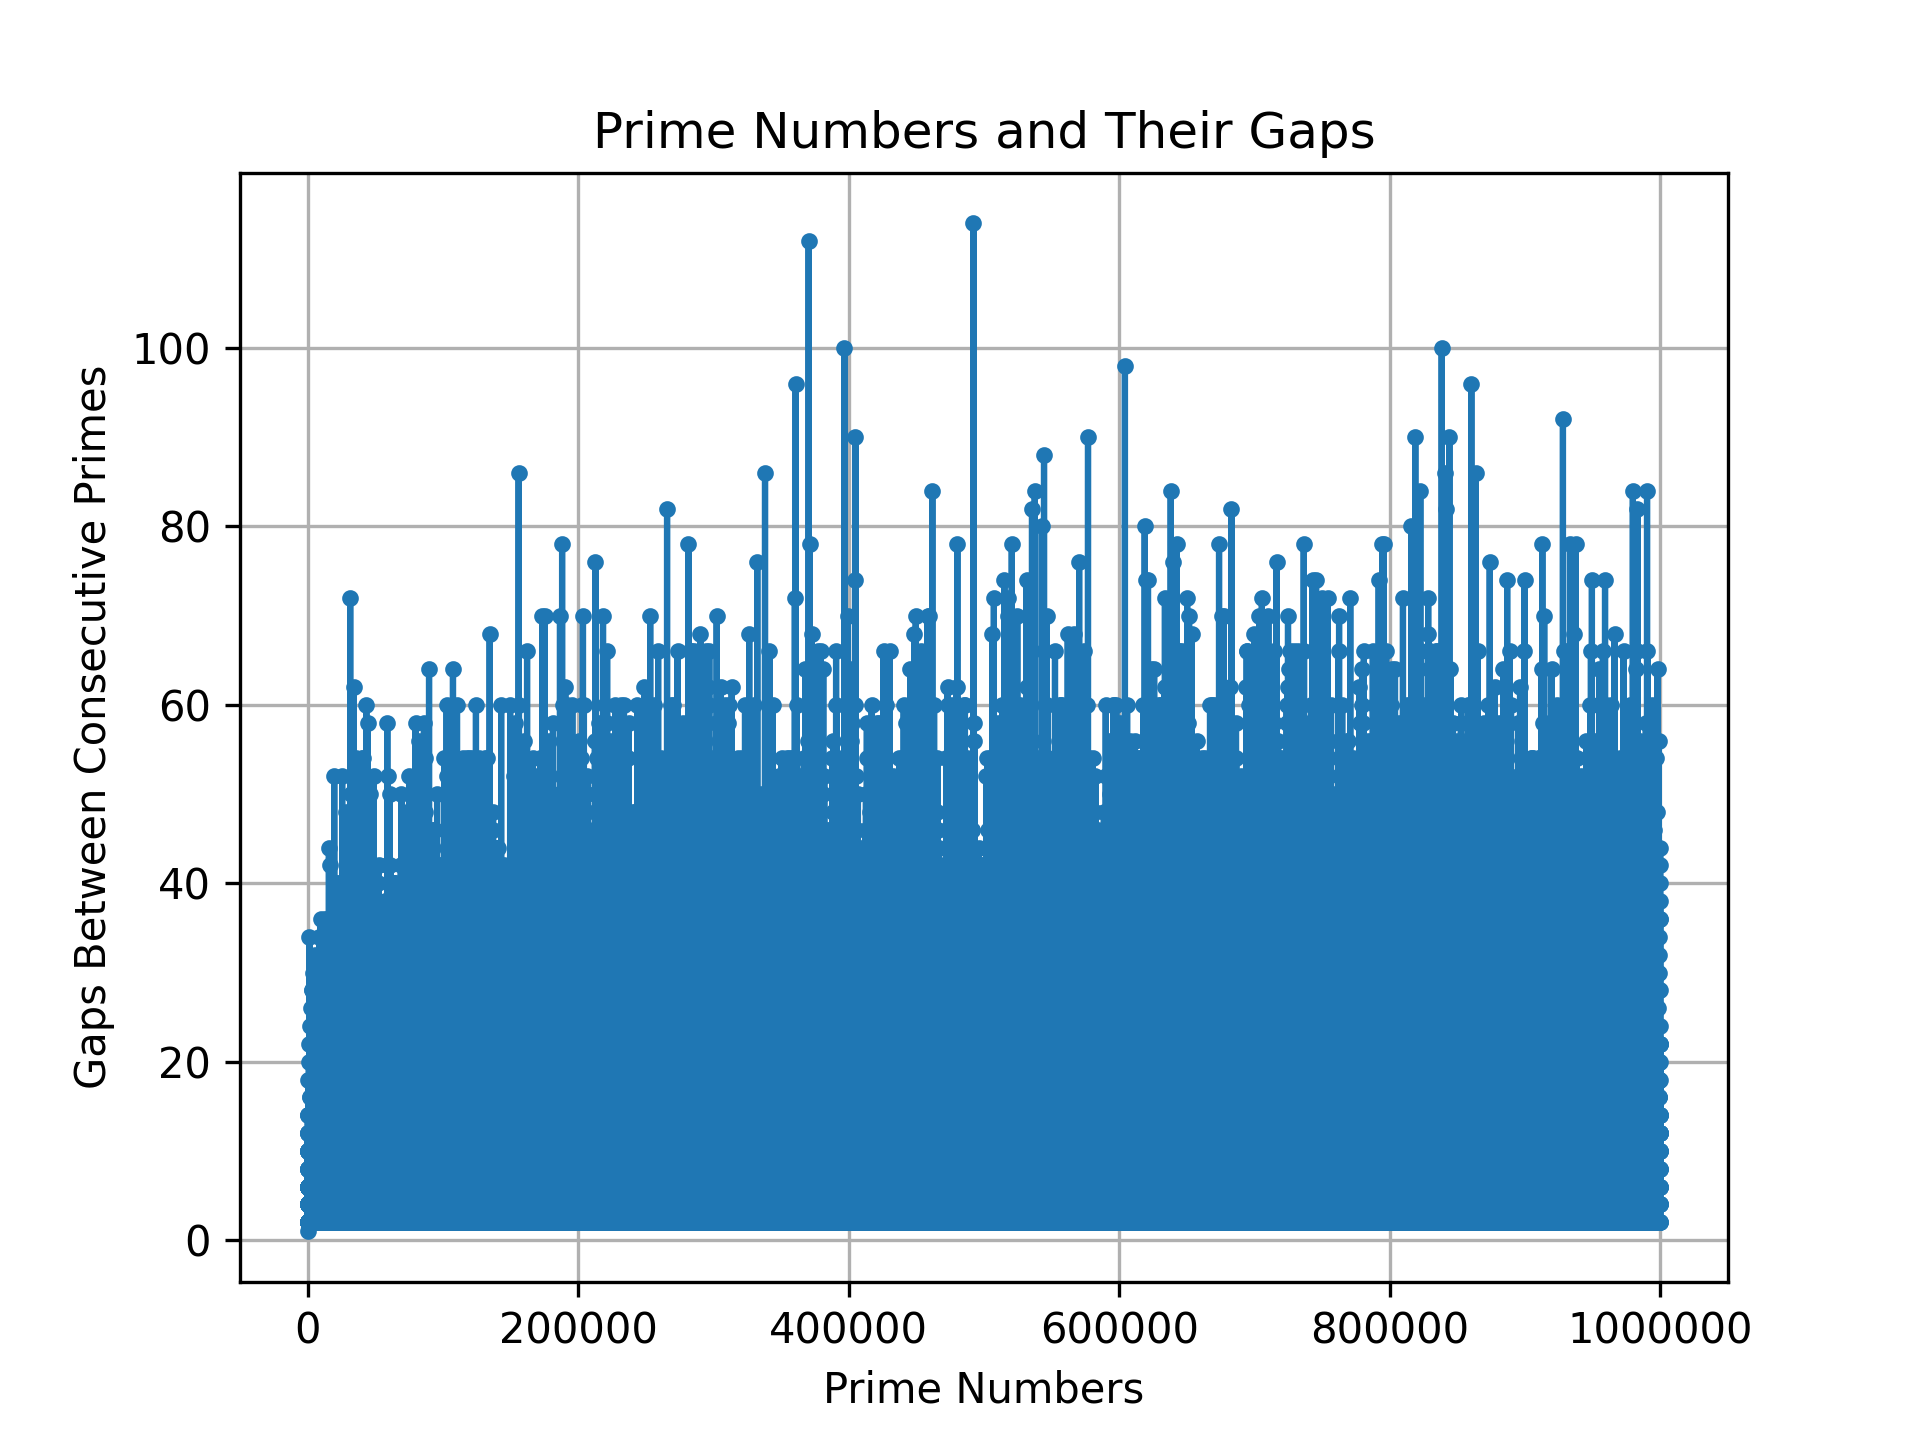
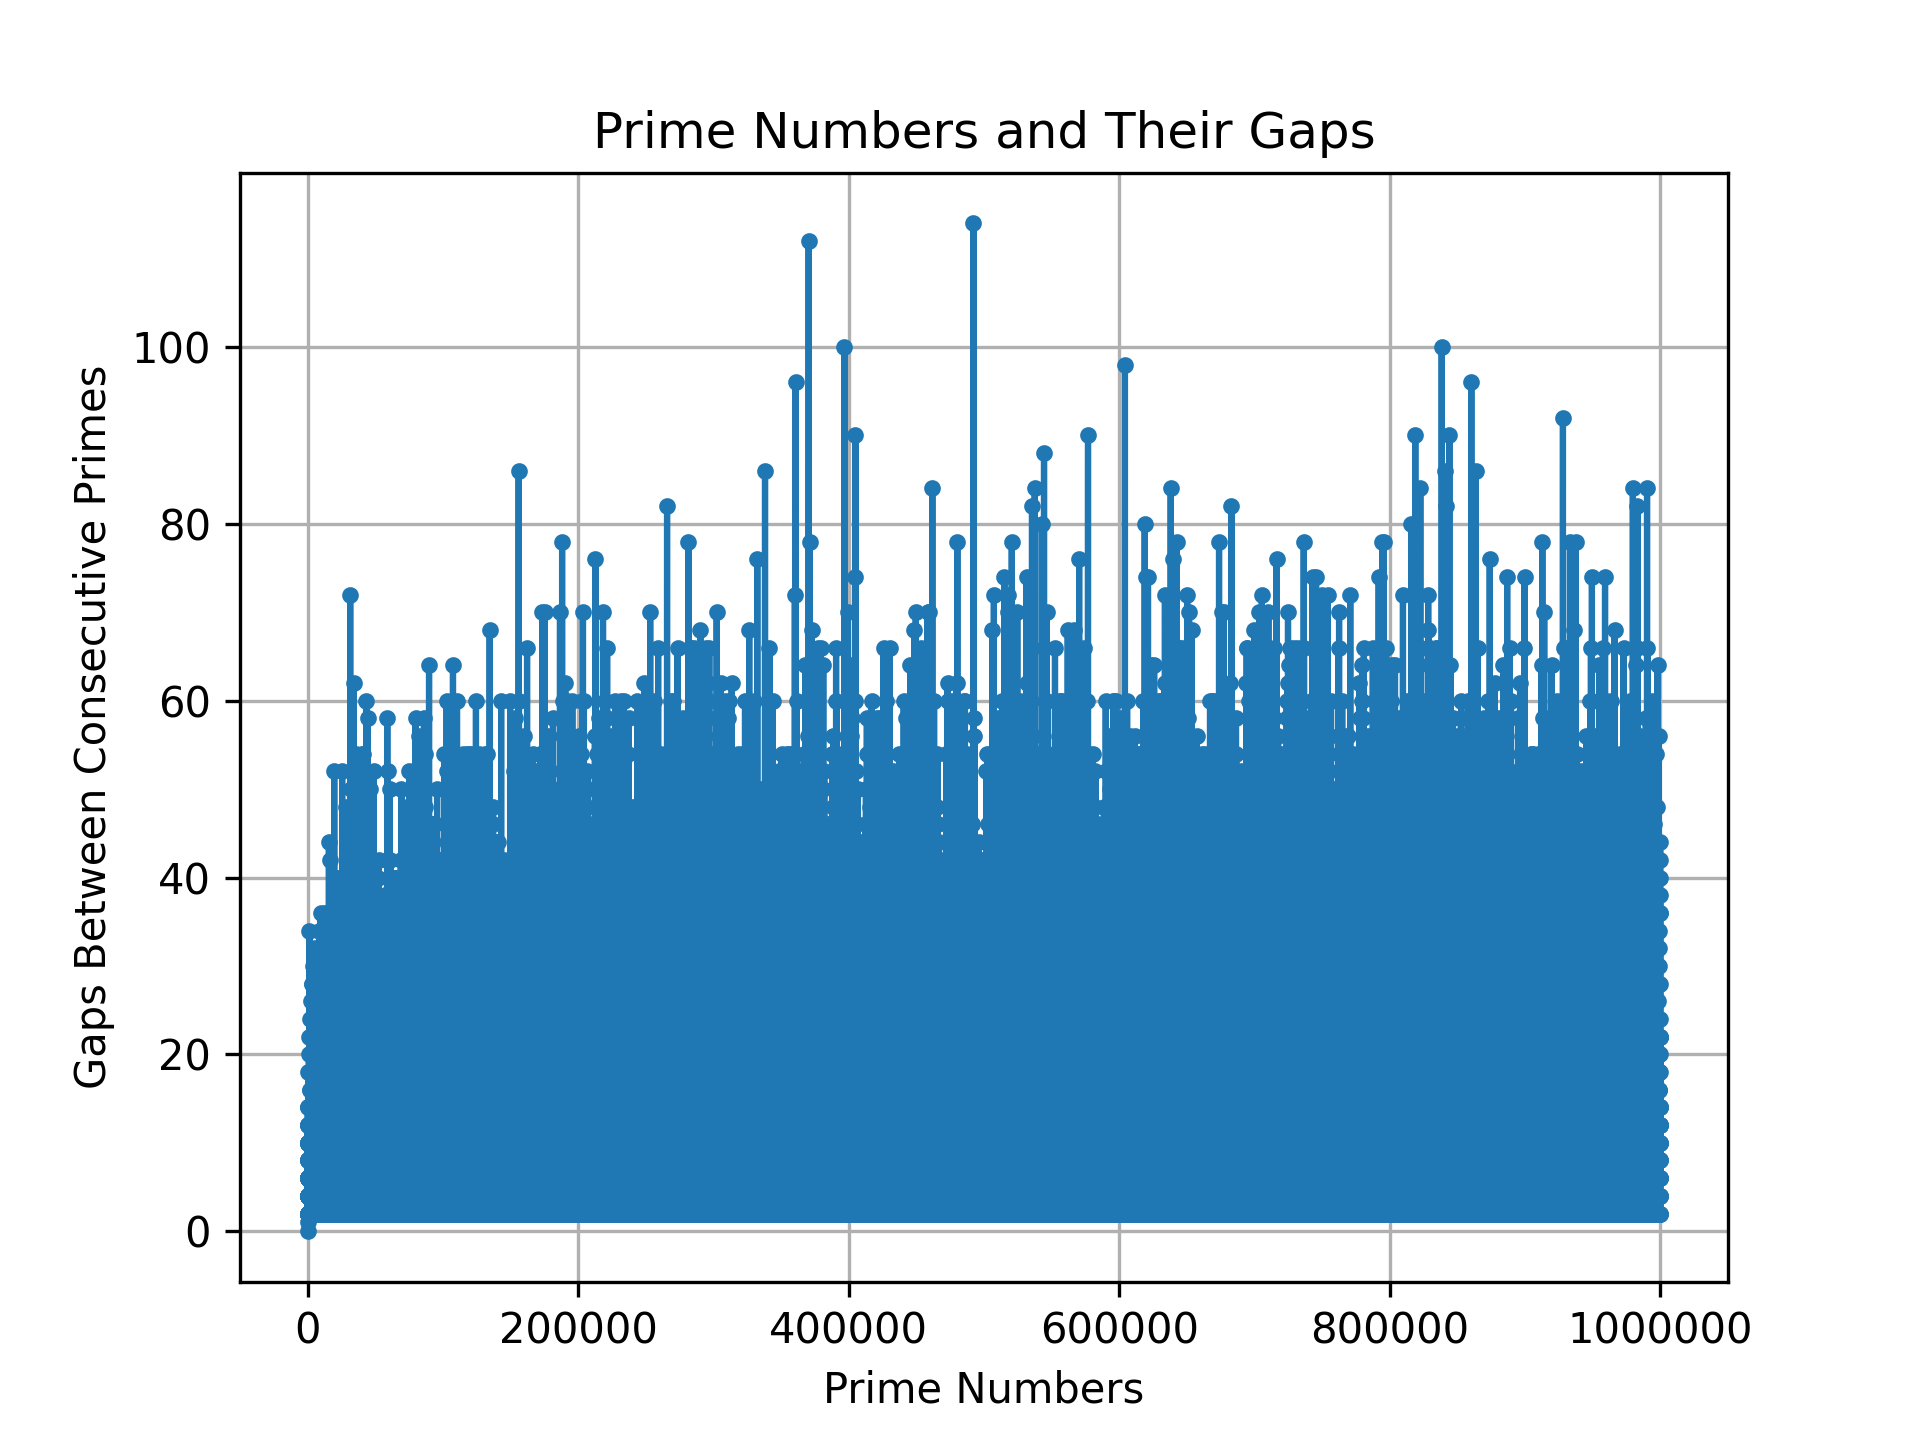
Fix a couple of bugs - Call plt.savefig before plt.show() - Added log scale for x-axis for prime density graph - Added log scale for y-axis for prime gap distribution - Gap for 1st prime number is treated as 0 instead of 2

diff --git a/prime.py b/prime.py
@@ -1,8 +1,13 @@
 import matplotlib.pyplot as plt
 import math
 
+'''
+This module analyzes prime numbers up to a specified limit, computes the gaps between consecutive primes,
+and visualizes both the gaps and the histogram of these gaps.
+'''
 class PrimePatterns(object):
     def __init__(self, num_primes = 1000000):
+        
         self.prime_numbers = []
         self.gaps = []
         self.num_primes = num_primes
@@ -10,7 +15,8 @@ class PrimePatterns(object):
         self.is_prime[0] = self.is_prime[1] = False
 
 
-    def run(self):
+    def compute_prime_gaps(self):
+        # This is a simple Sieve of Eratosthenes implementation to find all prime numbers up to self.num_primes
         for i in range(2, int(self.num_primes**0.5) + 1):
             if self.is_prime[i]:
                 for j in range(i*i, self.num_primes + 1, i):
@@ -23,63 +29,72 @@ class PrimePatterns(object):
                 if prev_prime is not None:
                     self.gaps.append(num - prev_prime)
                 else:
-                    self.gaps.append(num)
+                    self.gaps.append(0)  # No gap for the first prime
                 prev_prime = num
 
 
-    def plot(self):
+    def plot_prime_gaps(self):
         plt.plot(self.prime_numbers, self.gaps, marker='o', linestyle='-', markersize=3)
         plt.title('Prime Numbers and Their Gaps')
         plt.xlabel('Prime Numbers')
         plt.ticklabel_format(style='plain', axis='x')
         plt.ylabel('Gaps Between Consecutive Primes')
         plt.grid(True)
-        plt.show()
         plt.savefig('prime_gaps.png', dpi=300)
+        plt.show()
         plt.close()
 
         plt.hist(self.gaps, bins=30)
         plt.title("Distribution of Prime Gaps")
         plt.xlabel("Gap Size")
         plt.ylabel("Frequency")
-        plt.show()
+        plt.yscale('log')
         plt.savefig('prime_gaps_histogram.png', dpi=300)
+        plt.show()
         plt.close()
+
+
+'''
+This module conducts experiments to compare the actual density of prime numbers
+with the theoretical approximation of 1 / ln(n). It used the PrimePatterns class to gather prime data
+up to various limits and then plots the results. The class visualizes upto 1,000,000 primes to constrain
+the computation and memory load. Extending it to handle higher numbers would require a segmented sieve approach
+that can be more memory efficient.
+'''
 
 class PrimeDensityExperiments(object):
     def __init__(self):
         self.densities = []
-        self.num_primes_list = [1000, 10000, 100000, 1000000, 10000000, 100000000]
+        self.num_primes_list = [1000, 10000, 100000, 1000000]
         self.natural_logs = [1 / math.log(n) for n in self.num_primes_list]
 
-    def run(self):
-        
-        densities = []
+    def compute_prime_densities(self):
         for num_primes in self.num_primes_list:
             a = PrimePatterns(num_primes)
-            a.run()
+            a.compute_prime_gaps()
             density = len(a.prime_numbers) / num_primes
             self.densities.append(density)
     
-    def plot(self):
+    def plot_prime_densities(self):
         plt.plot(self.num_primes_list, self.densities, marker='o', linestyle='-', markersize=3)
         plt.plot(self.num_primes_list, self.natural_logs, marker='o', linestyle='-', markersize=3)
         plt.ticklabel_format(style='plain', axis='x')
+        plt.xscale('log')
         plt.legend(['Actual Prime Density', '1 / ln(n) Approximation'])
         plt.title('Prime Number Density vs Natural Log Approximation')          
         plt.xlabel('Range of Numbers')
         plt.ylabel('Density of prime numbers in that range')
-        plt.show()
         plt.savefig('prime_density vs natural_log.png', dpi=300)
+        plt.show()
         plt.close()
     
 def main():
     a = PrimePatterns()
-    a.run()
-    a.plot()
+    a.compute_prime_gaps()
+    a.plot_prime_gaps()
     b = PrimeDensityExperiments()
-    b.run()
-    b.plot()
+    b.compute_prime_densities()
+    b.plot_prime_densities()
 
 if __name__ == "__main__":
     main()
